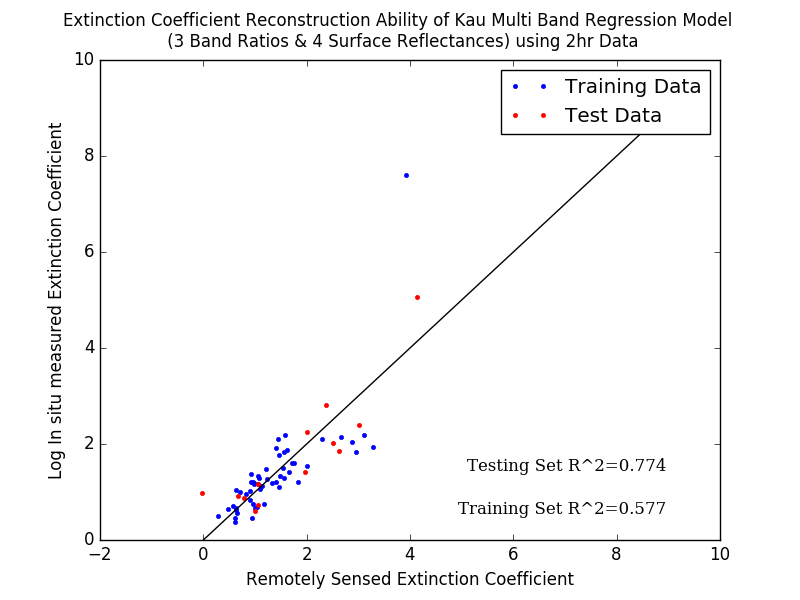
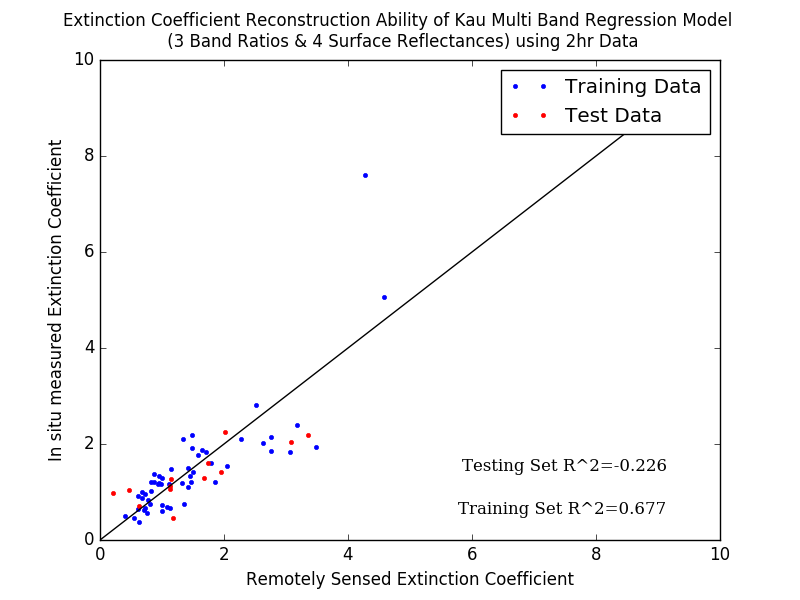
rearranged code

diff --git a/learning/make_plots.py b/learning/make_plots.py
@@ -6,6 +6,7 @@ from sklearn.metrics import r2_score
 
 seed = 4
 
+
 def r2_excoeff_vs_time_cutoff(times):
     r2s = np.zeros_like(times, dtype='float64')
     num_data = np.zeros_like(times, dtype='int32')
@@ -13,7 +14,8 @@ def r2_excoeff_vs_time_cutoff(times):
     for index, time in enumerate(times):
         # get appropriate features
         x, y = regression.get_data(filenames=[
-            '/Users/Nathan/Dropbox/SedimentLearning/data/landsat_polaris_filtered/filtered_excoeff_{}hr.csv'.format(time)])
+            '/Users/Nathan/Dropbox/SedimentLearning/data/landsat_polaris_filtered/filtered_excoeff_{}hr.csv'.format(
+                time)])
         x = regression.Kau_MB_BR_features(x)
 
         # create the huber fit model
@@ -27,12 +29,12 @@ def r2_excoeff_vs_time_cutoff(times):
         r2_test = np.round(r2_score(y_test, y_pred), 3)
         r2_train = np.round(r2_score(y_train, y_train_pred), 3)
 
-
         r2s[index] = r2_train
         num_data[index] = x.shape[0]
 
         print r2s, num_data
     return r2s, num_data
+
 
 def r2_vs_time_cutoff(times, spm_cutoff=None):
     r2s = np.zeros_like(times, dtype='float64')
@@ -58,8 +60,8 @@ def r2_vs_time_cutoff(times, spm_cutoff=None):
         r2_test = np.round(r2_score(y_test, y_pred), 3)
         r2_train = np.round(r2_score(y_train, y_train_pred), 3)
 
-        r2_test_unlog = np.round(r2_score(np.power(10,y_test), np.power(10,y_pred)), 3)
-        r2_train_unlog = np.round(r2_score(np.power(10,y_train), np.power(10,y_train_pred)), 3)
+        r2_test_unlog = np.round(r2_score(np.power(10, y_test), np.power(10, y_pred)), 3)
+        r2_train_unlog = np.round(r2_score(np.power(10, y_train), np.power(10, y_train_pred)), 3)
 
         r2s[index] = r2_train_unlog
         num_data[index] = x.shape[0]
@@ -68,10 +70,10 @@ def r2_vs_time_cutoff(times, spm_cutoff=None):
     return r2s, num_data
 
 
-def plot_r2_over_time_diff(plot_excoeff = False):
+def plot_r2_over_time_diff(plot_excoeff=False):
     times = np.array([1, 2, 4, 8, 12, 16, 20, 24])
     if plot_excoeff:
-        r2s,num_data = r2_excoeff_vs_time_cutoff(times)
+        r2s, num_data = r2_excoeff_vs_time_cutoff(times)
     else:
         r2s, num_data = r2_vs_time_cutoff(times)
     # model on 5 band ratios and 6 reflectances
@@ -95,7 +97,8 @@ def plot_r2_over_time_diff(plot_excoeff = False):
 
     ax2.set_ylabel('Number of Samples')
     ydata = 'ExCoeff' if plot_excoeff else 'SPM'
-    fig.suptitle('R^2s of Robust Regression Model for {} versus Data Collection Time Difference Threshold'.format(ydata))
+    fig.suptitle(
+        'R^2s of Robust Regression Model for {} versus Data Collection Time Difference Threshold'.format(ydata))
     ax.set_xlabel('Data Collection Time Difference Threshold (hrs)')
     ax.set_ylabel('R^2 of Robust Regression')
 
@@ -259,6 +262,7 @@ def make_huber_train_basic(time_cutoff, spm_cutoff=None):
     # plt.show()
     print 'r2 train log: ', r2_train
 
+
 def make_huber_train_Kau_MB_ExCoeff(time_cutoff):
     '''
     log(ExCoeff) has low correlation to reflectances, plain excoeff has higher correlation
@@ -270,10 +274,11 @@ def make_huber_train_Kau_MB_ExCoeff(time_cutoff):
     '''
     # Get the appropriate features: 3 band ratios, 4 reflectances, SPM
     x, y = regression.get_data(filenames=[
-        '/Users/Nathan/Dropbox/SedimentLearning/data/landsat_polaris_filtered/filtered_excoeff_{}hr.csv'.format(time_cutoff)],y_names=['Measured Extinction Coefficient'],Y_CODE='Measured Extinction Coefficient')  # 8hr data
+        '/Users/Nathan/Dropbox/SedimentLearning/data/landsat_polaris_filtered/filtered_excoeff_{}hr.csv'.format(
+            time_cutoff)], y_names=['Measured Extinction Coefficient'],
+        Y_CODE='Measured Extinction Coefficient')  # 8hr data
     # print y
     x = regression.Kau_MB_BR_features(x)
-
 
     # generate the huber regression model
     alpha = 8
@@ -303,7 +308,7 @@ def make_huber_train_Kau_MB_ExCoeff(time_cutoff):
         'Extinction Coefficient Reconstruction Ability of Kau Multi Band Regression Model \n (3 Band Ratios & 4 Surface Reflectances) using {}hr Data'.format(
             time_cutoff))
     ax.set_xlabel('Remotely Sensed Extinction Coefficient')
-    ax.set_ylabel('Log In situ measured Extinction Coefficient')
+    ax.set_ylabel('In situ measured Extinction Coefficient')
 
     ax.annotate(xy=(0, 0), xytext=(5. / 6., 1. / 7.), s='Training Set R^2={}'.format(r2_train),
                 textcoords="figure fraction", family='serif', horizontalalignment='right')
@@ -311,6 +316,7 @@ def make_huber_train_Kau_MB_ExCoeff(time_cutoff):
                 textcoords="figure fraction", family='serif', horizontalalignment='right')
 
     plt.savefig('../figures/huber_training_Kau_MB_excoeff_{}hr'.format(time_cutoff))
+
 
 def make_huber_train_Kau_MB(time_cutoff, spm_cutoff=None):
     '''
@@ -377,10 +383,10 @@ def make_huber_train_Kau_MB(time_cutoff, spm_cutoff=None):
 
     # start creating the plot for the non log graph
     # unlog y_train, pred etc
-    y_test = np.power(10,y_test)
-    y_pred = np.power(10,y_pred)
-    y_train = np.power(10,y_train)
-    y_train_pred = np.power(10,y_train_pred)
+    y_test = np.power(10, y_test)
+    y_pred = np.power(10, y_pred)
+    y_train = np.power(10, y_train)
+    y_train_pred = np.power(10, y_train_pred)
 
     r2_test = np.round(r2_score(y_test, y_pred), 3)
     r2_train = np.round(r2_score(y_train, y_train_pred), 3)
@@ -409,10 +415,12 @@ def make_huber_train_Kau_MB(time_cutoff, spm_cutoff=None):
     # plt.show()
     print 'r2 train not log: ', r2_train
 
+
 def make_huber_train_Kau_Simple(time_cutoff):
     # Get the appropriate features: 3 band ratios, 4 reflectances, SPM
     x, y = regression.get_data(filenames=[
-        '/Users/Nathan/Dropbox/SedimentLearning/data/landsat_polaris_filtered/filtered_{}hr.csv'.format(time_cutoff)])  # 8hr data
+        '/Users/Nathan/Dropbox/SedimentLearning/data/landsat_polaris_filtered/filtered_{}hr.csv'.format(
+            time_cutoff)])  # 8hr data
     x = regression.Kau_Simple_features(x)
 
     # log base 10 spm regression
@@ -460,10 +468,10 @@ def make_huber_train_Kau_Simple(time_cutoff):
 
     # start creating the plot for the non log graph
     # unlog y_train, pred etc
-    y_test = np.power(10,y_test)
-    y_pred = np.power(10,y_pred)
-    y_train = np.power(10,y_train)
-    y_train_pred = np.power(10,y_train_pred)
+    y_test = np.power(10, y_test)
+    y_pred = np.power(10, y_pred)
+    y_train = np.power(10, y_train)
+    y_train_pred = np.power(10, y_train_pred)
 
     r2_test = np.round(r2_score(y_test, y_pred), 3)
     r2_train = np.round(r2_score(y_train, y_train_pred), 3)
@@ -491,6 +499,7 @@ def make_huber_train_Kau_Simple(time_cutoff):
     plt.savefig('../figures/huber_training_Kau_simple_{}hr'.format(time_cutoff))
     # plt.show()
     print 'r2 train not log: ', r2_train
+
 
 def make_huber_test():
     x, y = regression.get_data()
@@ -562,5 +571,5 @@ if __name__ == '__main__':
     # make_huber_train_basic(2)
     # plot_r2_over_time_diff(plot_excoeff=False)
     # r2_vs_time_cutoff([8])
-    # make_huber_train_Kau_MB_ExCoeff(2)
-    make_huber_train_Kau_Simple(1)
+    make_huber_train_Kau_MB_ExCoeff(2)
+    # make_huber_train_Kau_Simple(1)

diff --git a/learning/regression.py b/learning/regression.py
@@ -360,7 +360,7 @@ def Kau_Simple_features(X):
     # 13 + ratio0 -> .833
     # 03 + ratio0 -> .633
     # 13 + ratio1 -> .826
-    return X[:,[1,0,3]]
+    return X[:,[0,1,3]]
 
 def top_5_band_ratios(X):
     '''
